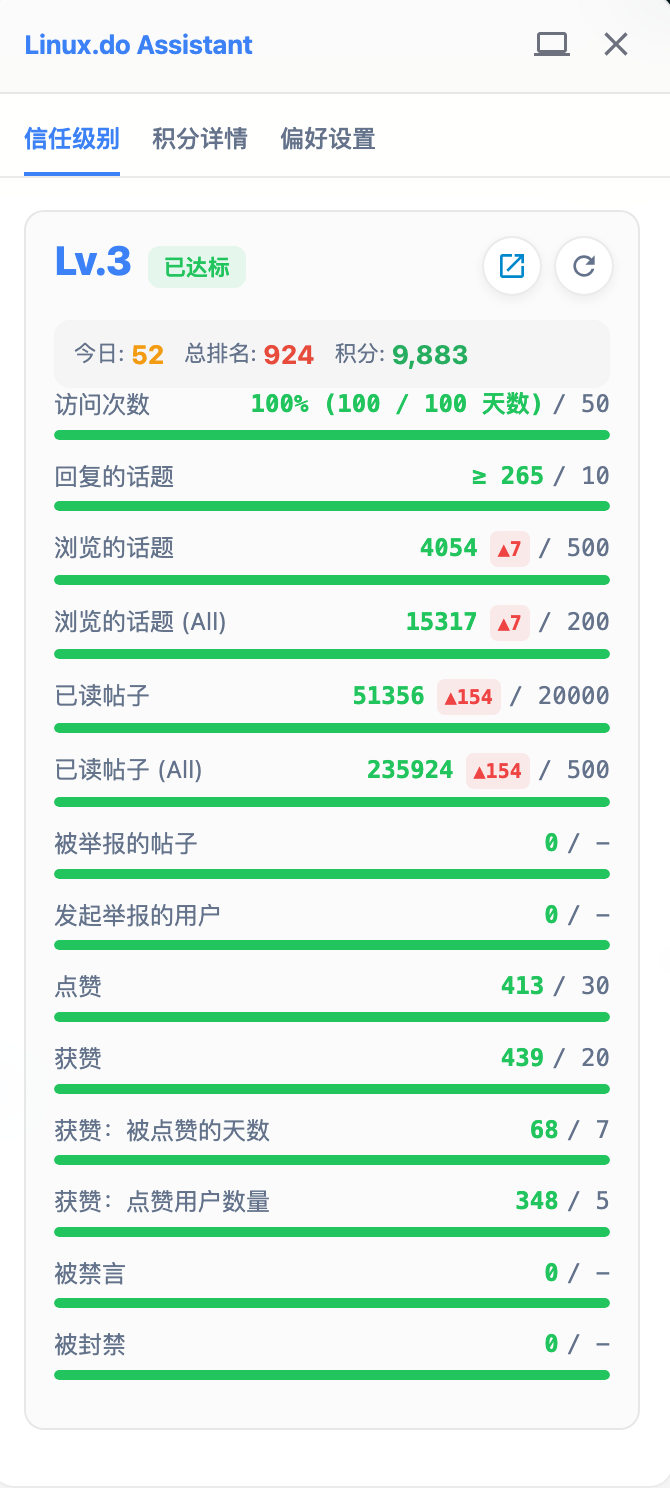
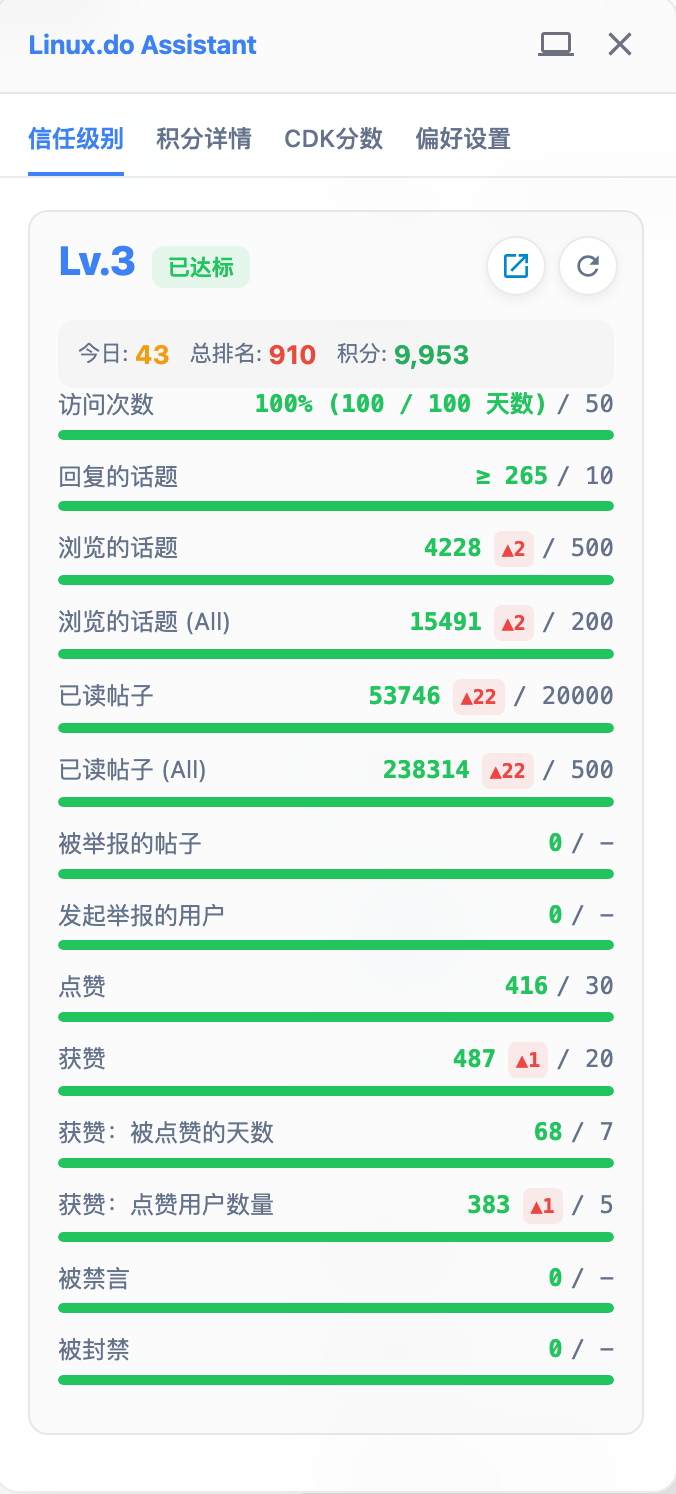
docs: 更新所有截图并添加 CDK 页面截图
- 更新 p1.png (信任级别)
- 更新 p2.png (积分详情)
- 更新 p3.png (偏好设置)
- 新增 p4.png (CDK分数页面)
- 更新 README 使用新的 p4.png

diff --git a/README.md b/README.md
@@ -30,9 +30,9 @@
 
 ### 功能页面
 
-| 信任级别 | 积分详情 | CDK 社区分数 | 偏好设置 |
+| 信任级别 | 积分详情 | CDK分数 | 偏好设置 |
 |:---:|:---:|:---:|:---:|
-| ![信任级别](pics/p1.png) | ![积分详情](pics/p2.png) | ![CDK分数](pics/p3.png) | ![偏好设置](pics/p3.png) |
+| ![信任级别](pics/p1.png) | ![积分详情](pics/p2.png) | ![CDK分数](pics/p4.png) | ![偏好设置](pics/p3.png) |
 
 > 注：CDK 社区分数功能需要先访问 [cdk.linux.do](https://cdk.linux.do/dashboard) 完成 OAuth 授权
 
